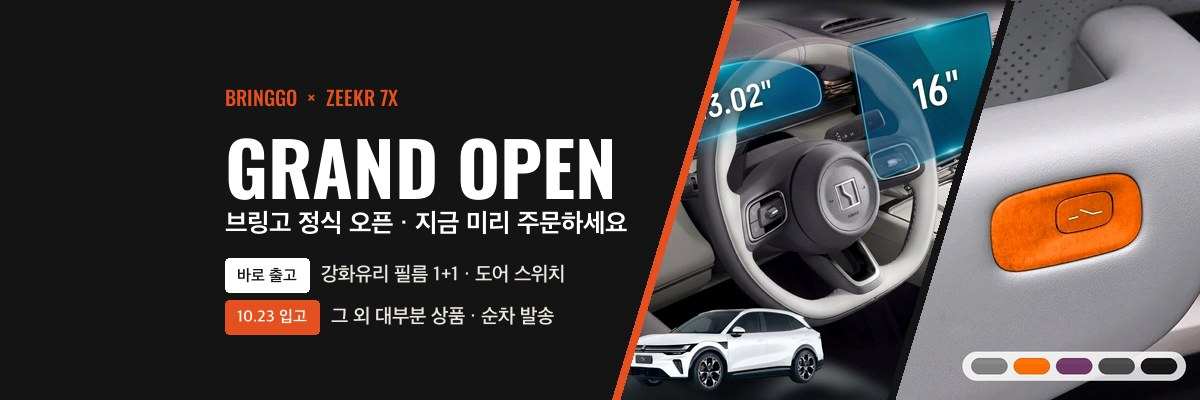
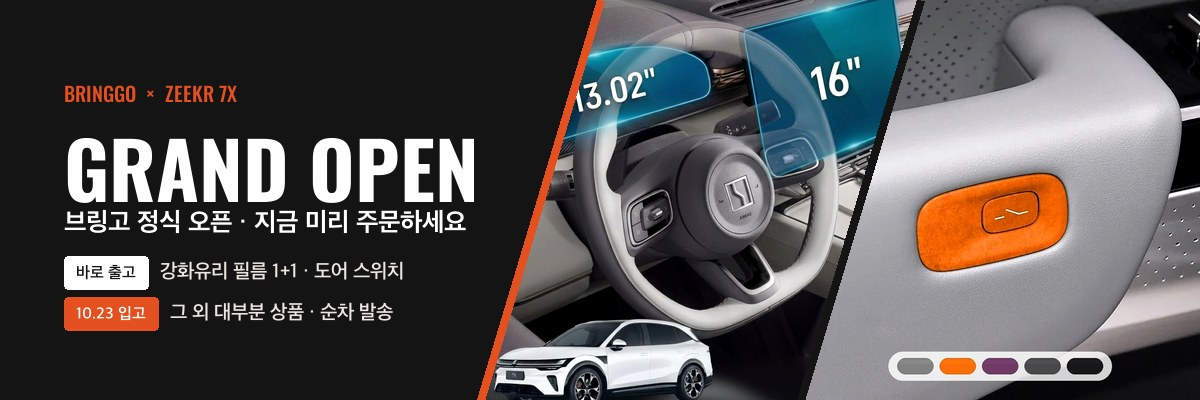
배너 PC/휴대폰 이미지 따로 업로드(picture), 오픈 배너 PC 전체폭·모바일 800×400 버전

diff --git a/shop/admin.js b/shop/admin.js
@@ -62,7 +62,8 @@ const api = DEMO ? demoAdminApi() : {
   async saveBanner(id, patch) { const q = id ? sb.from('banners').update(patch).eq('id', id) : sb.from('banners').insert(patch); const { error } = await q; if (error) throw error; },
   async delBanner(b) {
     const { error } = await sb.from('banners').delete().eq('id', b.id); if (error) throw error;
-    const m = String(b.image_url).match(/\/banners\/([^/?]+)$/); if (m) await sb.storage.from('banners').remove([m[1]]);
+    const files = [b.image_url, b.image_mobile_url].map(u => String(u || '').match(/\/banners\/([^/?]+)$/)?.[1]).filter(Boolean);
+    if (files.length) await sb.storage.from('banners').remove(files);
   },
   // 딜러 활동: 장바구니 전체 + 최근 30일 상품 조회
   async activity() {
@@ -776,20 +777,22 @@ async function viewBanners() {
     <div class="small mut">딜러 첫 화면 맨 위에서 5초마다 넘어가요. 켜진 배너가 없으면 배너 자리가 사라져요.</div></div>
   <form id="bf" class="panel bn-new" novalidate>
     <h2>새 배너 올리기</h2>
-    <p class="small mut" style="margin:-6px 0 14px">권장 크기 <b>가로 1200 × 세로 400px</b> (3:1) · JPG · 500KB 이하. 휴대폰에서는 양옆이 조금 잘려 보이니 <b>글자·상품은 가운데</b>에 두세요.</p>
+    <p class="small mut" style="margin:-6px 0 14px">PC용 <b>1200 × 400px</b> (3:1) · 휴대폰용 <b>800 × 400px</b> (2:1) · JPG · 500KB 이하. 휴대폰용을 안 올리면 PC 이미지의 양옆을 잘라서 보여줘요.</p>
     <div class="grid2">
-      <div class="field"><label>이미지<em>*</em></label><input type="file" name="file" accept="image/*"></div>
-      <div class="field"><label>관리용 이름</label><input name="title" placeholder="예) 도어 스위치 커버 오픈 기념"></div>
+      <div class="field"><label>PC 이미지<em>*</em> <span class="mut">1200×400</span></label><input type="file" name="file" accept="image/*"></div>
+      <div class="field"><label>휴대폰 이미지 <span class="mut">800×400 · 선택</span></label><input type="file" name="mfile" accept="image/*"></div>
     </div>
+    <div class="field"><label>관리용 이름</label><input name="title" placeholder="예) 정식 오픈 배너"></div>
     <div class="field"><label>누르면 이동할 상품</label><select name="link">${prodOpts('')}</select></div>
-    <div class="bn-preview" id="bnprev"></div>
+    <div class="bn-preview" id="bnprev"></div><div class="bn-preview m" id="bnprevm"></div>
     <button class="btn pri" type="submit">배너 올리기</button>
   </form>
   <div class="bn-list">${!list.length ? '<div class="empty">아직 배너가 없습니다.</div>' : list.map((b, i) => `
     <div class="bn-item ${b.active ? '' : 'off'}" data-bid="${b.id}">
-      <img src="${esc(b.image_url)}" alt="">
+      <div class="bn-imgs"><img src="${esc(b.image_url)}" alt=""><span class="bn-m">${b.image_mobile_url ? `<img src="${esc(b.image_mobile_url)}" alt="">` : '<i>휴대폰용 없음</i>'}</span></div>
       <div class="bn-meta">
         <b>${esc(b.title || '(이름 없음)')}</b>
+        <label class="small bn-mup">휴대폰 이미지 ${b.image_mobile_url ? '바꾸기' : '올리기'} <input type="file" accept="image/*" data-bmup></label>
         <select data-blink>${prodOpts(b.link || '')}</select>
         <div class="acts">
           <button class="btn sm ghost" data-bmv="-1" ${i === 0 ? 'disabled' : ''}>▲ 앞으로</button>
@@ -802,15 +805,17 @@ async function viewBanners() {
     </div>`).join('')}</div>`;
   const f = $('#bf');
   f.file.onchange = () => { const x = f.file.files[0]; $('#bnprev').innerHTML = x ? `<img src="${URL.createObjectURL(x)}" alt="">` : ''; };
+  f.mfile.onchange = () => { const x = f.mfile.files[0]; $('#bnprevm').innerHTML = x ? `<img src="${URL.createObjectURL(x)}" alt="">` : ''; };
   f.onsubmit = async e => {
     e.preventDefault();
     const file = f.file.files[0];
     if (!file) return toast('이미지를 골라 주세요');
-    if (file.size > 3 * 1024 * 1024) return toast('이미지가 너무 커요 (3MB 이하로 줄여 주세요)');
+    const mfile = f.mfile.files[0];
+    if (file.size > 3 * 1024 * 1024 || (mfile && mfile.size > 3 * 1024 * 1024)) return toast('이미지가 너무 커요 (3MB 이하로 줄여 주세요)');
     const btn = f.querySelector('button[type=submit]'); btn.disabled = true; btn.textContent = '올리는 중…';
     try {
-      const url = await api.uploadBanner(file);
-      await api.saveBanner(null, { image_url: url, title: f.title.value.trim() || null, link: f.link.value || null, sort: list.length ? Math.max(...list.map(x => x.sort || 0)) + 1 : 0 });
+      const url = await api.uploadBanner(file), murl = mfile ? await api.uploadBanner(mfile) : null;
+      await api.saveBanner(null, { image_url: url, image_mobile_url: murl, title: f.title.value.trim() || null, link: f.link.value || null, sort: list.length ? Math.max(...list.map(x => x.sort || 0)) + 1 : 0 });
       toast('배너를 올렸습니다'); viewBanners();
     } catch (err) { toast(errMsg(err), 5000); btn.disabled = false; btn.textContent = '배너 올리기'; }
   };
@@ -818,6 +823,11 @@ async function viewBanners() {
     const b = list.find(x => x.id === +row.dataset.bid), i = list.indexOf(b);
     const save = async (patch, msg) => { try { await api.saveBanner(b.id, patch); toast(msg); viewBanners(); } catch (e) { toast(errMsg(e), 4000); } };
     $('[data-blink]', row).onchange = e => save({ link: e.target.value || null }, '이동할 상품을 바꿨습니다');
+    $('[data-bmup]', row).onchange = async e => {
+      const x = e.target.files[0]; if (!x) return;
+      try { const u = await api.uploadBanner(x); await api.saveBanner(b.id, { image_mobile_url: u }); toast('휴대폰 이미지를 올렸습니다'); viewBanners(); }
+      catch (err) { toast(errMsg(err), 4000); }
+    };
     $('[data-bact]', row).onclick = () => save({ active: !b.active }, b.active ? '배너를 껐습니다' : '배너를 켰습니다');
     $$('[data-bmv]', row).forEach(m => m.onclick = async () => {
       const o = list[i + +m.dataset.bmv]; if (!o) return;

diff --git a/shop/shop.js b/shop/shop.js
@@ -197,7 +197,7 @@ function demoApi() {
       for (const it of o.order_items) { const v = variants.find(x => x.id === it.variant_id); if (v) v.stock += it.qty; }
       store('zk_demo_orders', orders);
     },
-    async banners() { return (store('zk_demo_banners') || []).filter(b => b.active !== false).sort((a, b) => (a.sort ?? 0) - (b.sort ?? 0)).concat([]).length ? (store('zk_demo_banners') || []).filter(b => b.active !== false).sort((a, b) => (a.sort ?? 0) - (b.sort ?? 0)) : [{ id: 0, image_url: 'img/banner/open_A2.jpg', link: '#/products' }, { id: 1, image_url: 'img/banner/sample_door.jpg', link: '#/p/2' }, { id: 2, image_url: 'img/banner/sample_dealer.jpg', link: '#/products' }]; },
+    async banners() { return (store('zk_demo_banners') || []).filter(b => b.active !== false).sort((a, b) => (a.sort ?? 0) - (b.sort ?? 0)).concat([]).length ? (store('zk_demo_banners') || []).filter(b => b.active !== false).sort((a, b) => (a.sort ?? 0) - (b.sort ?? 0)) : [{ id: 0, image_url: 'img/banner/open_A2.jpg', image_mobile_url: 'img/banner/open_A2_m.jpg', link: '#/products' }, { id: 1, image_url: 'img/banner/sample_door.jpg', link: '#/p/2' }, { id: 2, image_url: 'img/banner/sample_dealer.jpg', link: '#/products' }]; },
     async notices() {
       const t = Date.now();
       return [
@@ -682,7 +682,7 @@ function viewHome() {
   const bs = S.banners || [];
   app().innerHTML = `
   ${bs.length ? `<div class="hero">
-    <div class="hero-track" id="hero">${bs.map(b => `<a class="hero-slide" ${b.link === '#/products' ? 'href="#/" data-toall' : b.link ? `href="${esc(b.link)}"` : ''}><img src="${esc(b.image_url)}" alt="${esc(b.title || '')}"></a>`).join('')}</div>
+    <div class="hero-track" id="hero">${bs.map(b => `<a class="hero-slide" ${b.link === '#/products' ? 'href="#/" data-toall' : b.link ? `href="${esc(b.link)}"` : ''}><picture>${b.image_mobile_url ? `<source media="(max-width:860px)" srcset="${esc(b.image_mobile_url)}">` : ''}<img src="${esc(b.image_url)}" alt="${esc(b.title || '')}"></picture></a>`).join('')}</div>
     ${bs.length > 1 ? `<button class="hero-nav prev" data-hn="-1" aria-label="이전 배너">‹</button><button class="hero-nav next" data-hn="1" aria-label="다음 배너">›</button>
     <div class="hero-dots">${bs.map((_, i) => `<i class="${i ? '' : 'on'}"></i>`).join('')}</div>` : ''}
   </div>` : ''}

diff --git a/shop/index.html b/shop/index.html
@@ -13,18 +13,18 @@ if (/github\.io$/.test(location.hostname)) location.replace('https://bringgo.pag
 <meta property="og:title" content="bringgo for ZEEKR 7X">
 <meta property="og:description" content="지커 7X 실내 액세서리 딜러 전용 주문">
 <meta property="og:url" content="https://bringgo.pages.dev/shop/">
-<meta property="og:image" content="https://bringgo.pages.dev/shop/img/brand/og.jpg?v=10192021">
+<meta property="og:image" content="https://bringgo.pages.dev/shop/img/brand/og.jpg?v=10192024">
 <meta property="og:image:width" content="1200">
 <meta property="og:image:height" content="630">
 <meta name="twitter:card" content="summary_large_image">
-<meta name="twitter:image" content="https://bringgo.pages.dev/shop/img/brand/og.jpg?v=10192021">
+<meta name="twitter:image" content="https://bringgo.pages.dev/shop/img/brand/og.jpg?v=10192024">
 <link rel="icon" type="image/png" sizes="32x32" href="img/brand/favicon-32.png">
 <link rel="icon" type="image/png" sizes="64x64" href="img/brand/favicon-64.png">
 <link rel="apple-touch-icon" href="img/brand/apple-touch-icon.png">
 <meta name="theme-color" content="#f3f1ec">
 <link rel="stylesheet" href="https://cdn.jsdelivr.net/npm/pretendard@1.3.9/dist/web/variable/pretendardvariable-dynamic-subset.min.css">
 <link rel="stylesheet" href="https://fonts.googleapis.com/css2?family=Oswald:wght@500;600&display=swap">
-<link rel="stylesheet" href="shop.css?v=10192021">
+<link rel="stylesheet" href="shop.css?v=10192024">
 </head>
 <body>
 <header>
@@ -39,8 +39,8 @@ if (/github\.io$/.test(location.hostname)) location.replace('https://bringgo.pag
 
 <script src="https://cdn.jsdelivr.net/npm/@supabase/supabase-js@2"></script>
 <script src="https://t1.daumcdn.net/mapjsapi/bundle/postcode/prod/postcode.v2.js"></script>
-<script src="config.js?v=10192021"></script>
-<script src="common.js?v=10192021"></script>
-<script src="shop.js?v=10192021"></script>
+<script src="config.js?v=10192024"></script>
+<script src="common.js?v=10192024"></script>
+<script src="shop.js?v=10192024"></script>
 </body>
 </html>

diff --git a/shop/admin.html b/shop/admin.html
@@ -13,8 +13,8 @@ if (/github\.io$/.test(location.hostname)) location.replace('https://bringgo.pag
 <meta name="theme-color" content="#f3f1ec">
 <link rel="stylesheet" href="https://cdn.jsdelivr.net/npm/pretendard@1.3.9/dist/web/variable/pretendardvariable-dynamic-subset.min.css">
 <link rel="stylesheet" href="https://fonts.googleapis.com/css2?family=Oswald:wght@500;600&display=swap">
-<link rel="stylesheet" href="shop.css?v=10192021">
-<link rel="stylesheet" href="admin.css?v=10192021">
+<link rel="stylesheet" href="shop.css?v=10192024">
+<link rel="stylesheet" href="admin.css?v=10192024">
 </head>
 <body>
 <header>
@@ -27,8 +27,8 @@ if (/github\.io$/.test(location.hostname)) location.replace('https://bringgo.pag
 <div id="toast"></div>
 
 <script src="https://cdn.jsdelivr.net/npm/@supabase/supabase-js@2"></script>
-<script src="config.js?v=10192021"></script>
-<script src="common.js?v=10192021"></script>
-<script src="admin.js?v=10192021"></script>
+<script src="config.js?v=10192024"></script>
+<script src="common.js?v=10192024"></script>
+<script src="admin.js?v=10192024"></script>
 </body>
 </html>

diff --git a/shop/admin.css b/shop/admin.css
@@ -190,3 +190,12 @@
   .bn-item{grid-template-columns:1fr}
   .bn-item img{width:100%}
 }
+.bn-preview.m img{max-width:300px;aspect-ratio:2/1}
+.bn-item{grid-template-columns:auto 1fr auto}
+.bn-imgs{display:flex;gap:8px;align-items:flex-start}
+.bn-imgs > img{width:300px}
+.bn-m img{width:150px;aspect-ratio:2/1;object-fit:cover;border:1px solid var(--hair)}
+.bn-m i{display:flex;align-items:center;justify-content:center;width:150px;aspect-ratio:2/1;border:1px dashed var(--hair2);font-size:12px;color:var(--mut);font-style:normal}
+.bn-mup{display:inline-flex;align-items:center;gap:6px;color:var(--ink2)}
+.bn-mup input{font-size:12px;max-width:200px}
+@media (max-width:860px){ .bn-imgs{flex-wrap:wrap} .bn-imgs > img{width:100%} }

diff --git a/shop/config.js b/shop/config.js
@@ -8,6 +8,6 @@ window.SHEET_URL = 'https://docs.google.com/spreadsheets/d/19crq_-szVqdJRlVK12RK
 window.KAKAO_CHANNEL_URL = 'https://pf.kakao.com/_vtvxiX/chat';
 
 // 상품 사진 버전 (사진을 교체하면 숫자를 올려 주세요)
-window.ASSET_V = '10122420';
+window.ASSET_V = '10192024';
 // 토스페이먼츠 클라이언트 키 (공개용 · test_ck_… 또는 live_ck_…). 비어 있으면 카드결제 숨김. 시크릿 키는 절대 여기 넣지 말 것 → Supabase Edge Function Secrets
 window.TOSS_CLIENT_KEY = '';
